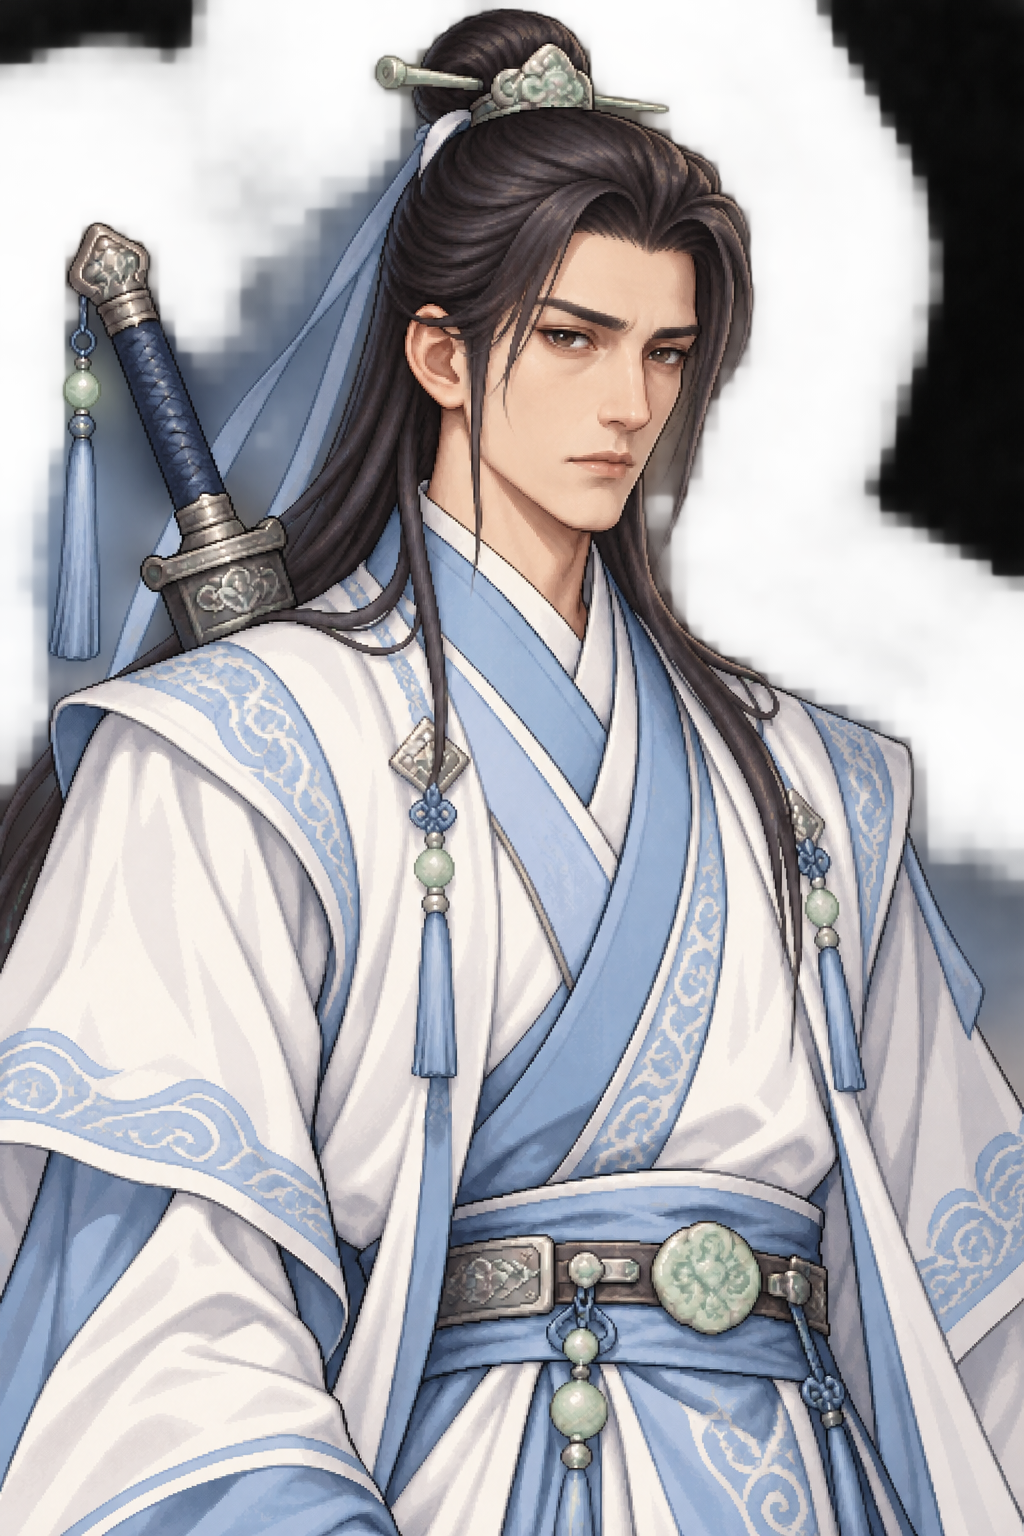
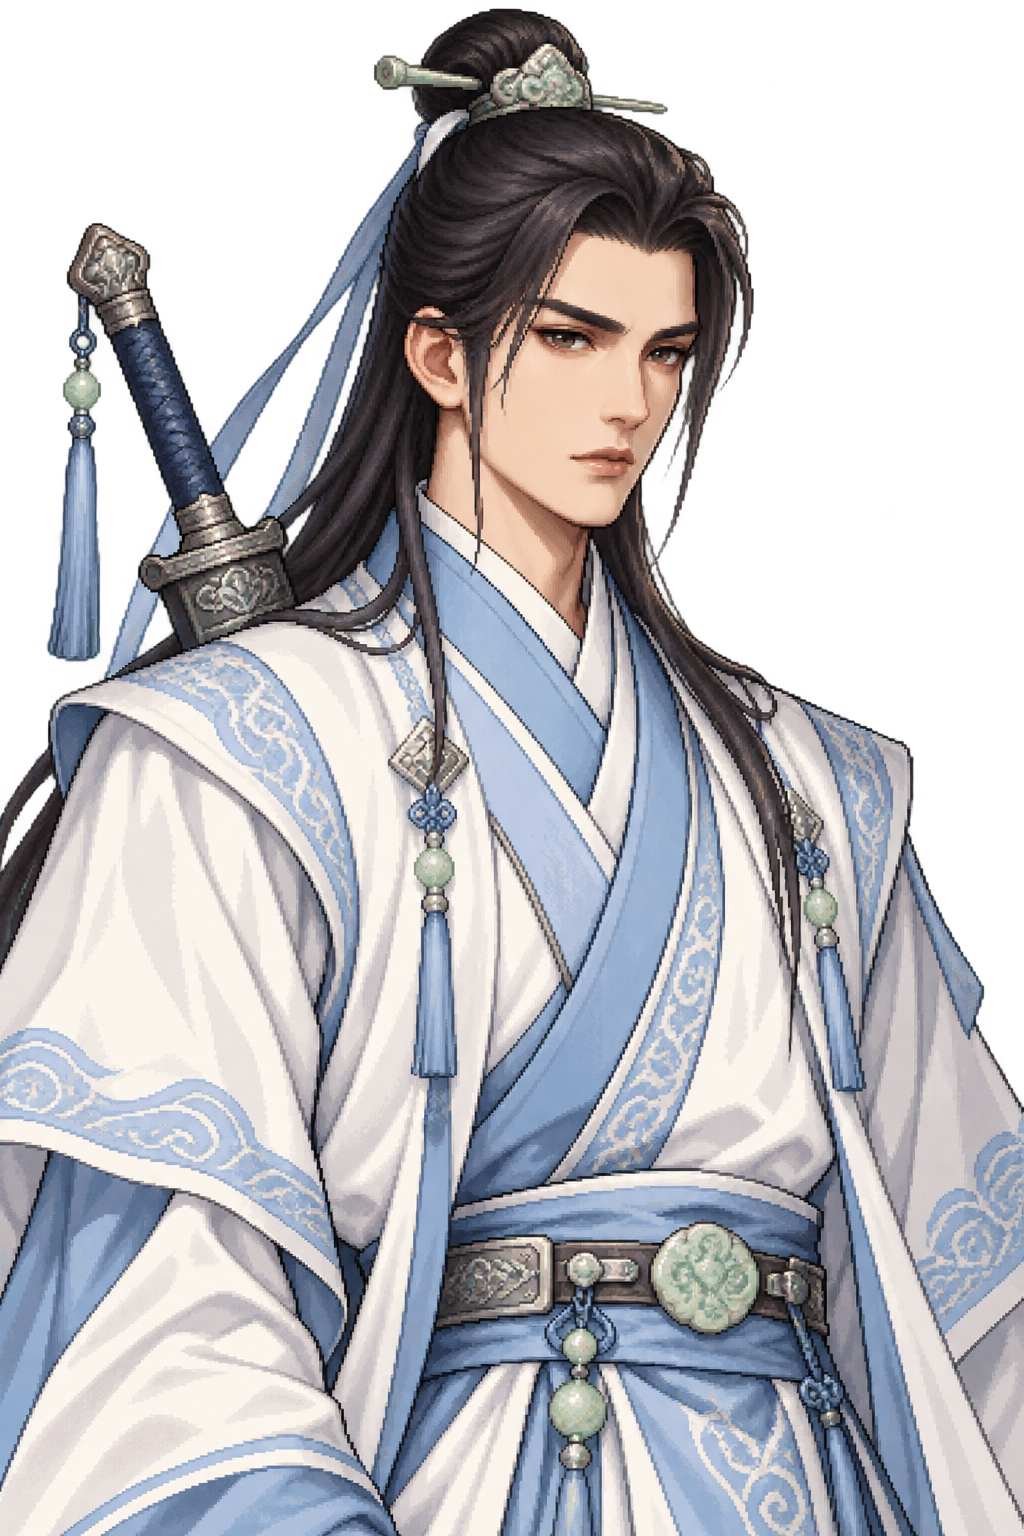
Restore original Seojin and Yeonseo portraits

diff --git a/docs/characters/creation-guidelines.md b/docs/characters/creation-guidelines.md
@@ -9,4 +9,6 @@
 - 초상화는 기존 도트 기반 대화용 초상화 화풍과 세력별 시각 컨셉을 따른다.
 - 이미지와 설정을 프로젝트에 저장하고, 확인 가능한 GitHub 링크로 제공한다. 이전에 승인된 같은 저장소에 대한 이미지·설정 업로드 흐름을 이어간다.
 
-- 외모는 인물별 얼굴형·눈·코·귀·수염·표정·생활 흔적을 달리하여 획일적인 미남·미녀상을 피한다. 제갈설하의 정파제일화 시안은 유지하며, 이번에 수정한 8명의 외형 특징은 각 가문 인물 문서의 최신 외형 수정안을 따른다. 남궁세가의 단정함은 유지하되 기존의 미형 요구는 이번 사용자 수정 방향에 맞춰 완화한다.
+- 외모는 인물별 얼굴형·눈·코·귀·수염·표정·생활 흔적을 달리하여 획일적인 미남·미녀상을 피한다. 제갈설하의 정파제일화 시안은 유지하며, 각 인물의 외형 특징은 각 가문 인물 문서의 최신 외형 수정안을 따른다. 남궁세가의 단정함은 유지하되 기존의 미형 요구는 이번 사용자 수정 방향에 맞춰 완화한다.
+
+- 후속 사용자 지정: 남궁서진·남궁연서는 미형 완화 수정 전의 원본 초상화를 사용한다. 제갈설하도 원본을 유지하며, 나머지 6명은 개성을 더한 수정본을 사용한다.

diff --git a/docs/characters/namgung-family.md b/docs/characters/namgung-family.md
@@ -68,6 +68,6 @@
 사용자 요청에 따라 미형의 획일화를 줄이고 아래 특징으로 초상화를 수정했다. 앞선 외모·초상화 지침과 충돌하는 부분은 이번 수정안을 우선한다. 복식·무기·성격·무공·연령은 유지한다.
 
 - 남궁정천: 넓은 턱, 깊은 주름, 두꺼운 코와 거친 수염.
-- 남궁서진: 길고 좁은 얼굴, 무거운 눈꺼풀과 피로한 눈매.
+- 남궁서진: 후속 사용자 지정에 따라 외형 수정 전 원본 초상화를 사용한다. 반듯하고 날카로운 얼굴과 격식 있는 인상을 유지한다.
 - 남궁도윤: 넓은 얼굴과 코, 주근깨와 비대칭 미소.
-- 남궁연서: 둥근 볼, 작은 눈매와 눈 아래 점.
+- 남궁연서: 후속 사용자 지정에 따라 외형 수정 전 원본 초상화를 사용한다. 단정하고 아름다운 얼굴과 또렷한 눈매를 유지한다.
